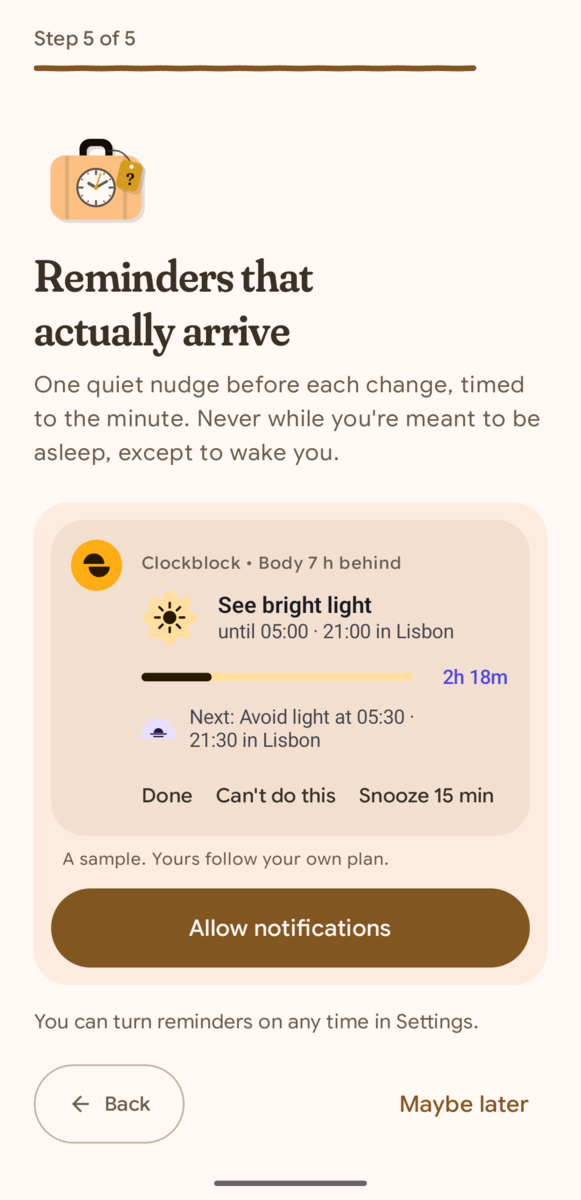
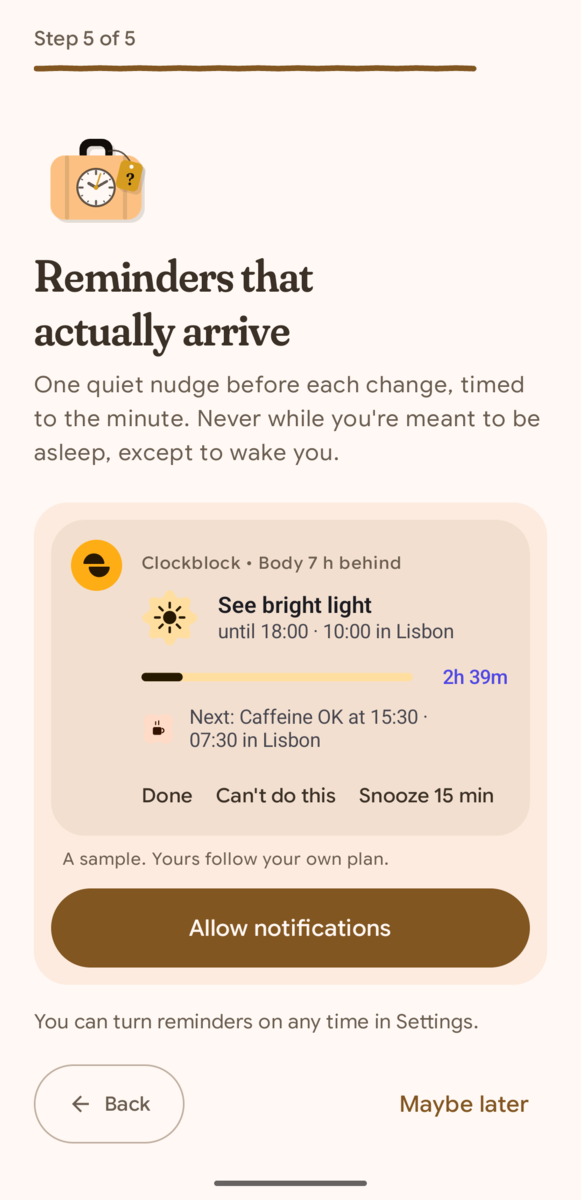
Reminders preview always shows a daytime sample (#154)
* Pin the onboarding notification preview to mid-afternoon in Tokyo, its countdown running on live

* Recapture the reminders step for the user guide with the daytime sample

diff --git a/widget/src/main/kotlin/dev/sebastiano/clockblocker/opus/widget/RemoteNowNotificationContent.kt b/widget/src/main/kotlin/dev/sebastiano/clockblocker/opus/widget/RemoteNowNotificationContent.kt
@@ -30,6 +30,7 @@ import dev.zacsweers.metro.Inject
 import kotlinx.coroutines.flow.first
 import kotlinx.coroutines.withTimeoutOrNull
 import java.time.Instant
+import java.time.ZoneId
 
 /**
  * The Now notification's Remote Compose content (#49): the notification documents ([NowNotificationDocuments]) for the
@@ -66,20 +67,31 @@ class RemoteNowNotificationContent(
 
     /**
      * Onboarding's preview: the expanded document for the widgets' sample Lisbon → Tokyo plan in bright light (made-up
-     * advice, no user data), [widthDp] wide, with no click action.
+     * advice, no user data), [widthDp] wide, with no click action. The sample is pinned to mid-afternoon in Tokyo
+     * ([previewMoment]), so it never reads "See bright light until 05:00" in someone's evening; its countdown and bar
+     * then run on with the real clock from there.
      */
     override suspend fun preview(now: Instant, widthDp: Int): RemoteViews? {
         val profile = profileProvider() ?: return null
-        val plan = DemoPlans.lisbonTokyo(now, DemoPlans.Scenario.SeeBrightLight)
-        val state = NowStateCalculator.compute(plan, now) ?: return null
-        val model = model(state, plan, now, DemoPlans.trip()) ?: return null
+        val model = previewModel(now) ?: return null
         val slots = NotificationSlots(collapsedWidthDp = widthDp, expandedWidthDp = widthDp)
         val documents = NowNotificationDocuments.capture(application, model, slots) { size, content -> capturer(profile, size, content) }
         return RemoteComposeRenderer.remoteViews(documents.expanded)
     }
 
-    /** What the documents show: the widgets' render of [plan] with the notification's pick ([WidgetStateMapper.forNowNotification]). */
-    internal fun model(state: NowState, plan: JetLagPlan, now: Instant, trip: Trip?): ThemedWidgetModel? {
+    /** The preview's document model: the sample plan at [previewMoment], its live parts counting on from [now]. */
+    internal fun previewModel(now: Instant): ThemedWidgetModel? {
+        val pinned = previewMoment(now)
+        val plan = DemoPlans.lisbonTokyo(pinned, DemoPlans.Scenario.SeeBrightLight)
+        val state = NowStateCalculator.compute(plan, pinned) ?: return null
+        return model(state, plan, pinned, DemoPlans.trip(), hostClockFrom = now)
+    }
+
+    /**
+     * What the documents show: the widgets' render of [plan] with the notification's pick
+     * ([WidgetStateMapper.forNowNotification]). [hostClockFrom] is where the live countdown and bar count on from.
+     */
+    internal fun model(state: NowState, plan: JetLagPlan, now: Instant, trip: Trip?, hostClockFrom: Instant = now): ThemedWidgetModel? {
         val mapped = WidgetStateMapper.map(
             plan,
             now,
@@ -89,11 +101,19 @@ class RemoteNowNotificationContent(
             places = trip?.let(WidgetStateMapper::places).orEmpty(),
         ) as? WidgetState.Active ?: return null
         val shown = WidgetStateMapper.forNowNotification(mapped, state.headline, state.next, state.outcome)
-        return WidgetRenderer(application).themedModel(shown)
+        return WidgetRenderer(application).themedModel(shown.copy(hostClockFrom = hostClockFrom))
     }
 
-    private companion object {
+    internal companion object {
+        /** The preview's pinned moment: 15:20 in Tokyo, the sample's destination, on [now]'s date there. */
+        fun previewMoment(now: Instant): Instant =
+            now.atZone(ZoneId.of(DemoPlans.DESTINATION_ZONE)).toLocalDate().atTime(PREVIEW_HOUR, PREVIEW_MINUTE)
+                .atZone(ZoneId.of(DemoPlans.DESTINATION_ZONE)).toInstant()
+
+        private const val PREVIEW_HOUR = 15
+        private const val PREVIEW_MINUTE = 20
+
         /** Like the widgets: a trip that can't be read in time leaves the place names to the zones. */
-        const val READ_TIMEOUT_MS = 2_000L
+        private const val READ_TIMEOUT_MS = 2_000L
     }
 }

diff --git a/widget/src/test/kotlin/dev/sebastiano/clockblocker/opus/widget/rc/NowNotificationRemoteTest.kt b/widget/src/test/kotlin/dev/sebastiano/clockblocker/opus/widget/rc/NowNotificationRemoteTest.kt
@@ -86,6 +86,9 @@ class NowNotificationRemoteTest {
     private val now = Instant.parse("2026-10-06T06:20:00Z") // 15:20 in Tokyo
     private val slots = NotificationSlots.forScreenWidth(SCREEN_DP)
 
+    /** The players' clock (the shade's); the preview tests move it on from the capture. */
+    private var playerNow = now
+
     @Before
     fun use24Hour() {
         Settings.System.putString(context.contentResolver, Settings.System.TIME_12_24, "24")
@@ -136,7 +139,7 @@ class NowNotificationRemoteTest {
 
     private fun document(bytes: ByteArray): RemoteDocument {
         @Suppress("RestrictedApiAndroidX") // test-only: pin the player clock so the countdown and bar are stable
-        return RemoteDocument(ByteArrayInputStream(bytes), SystemClock(Clock.fixed(now, zone)))
+        return RemoteDocument(ByteArrayInputStream(bytes), SystemClock(Clock.fixed(playerNow, zone)))
     }
 
     /** The height the platform-like view player gives [bytes] at [widthDp] under the shade's cap, after a first draw. */
@@ -261,6 +264,29 @@ class NowNotificationRemoteTest {
             captureSingleRemoteDocument(context = context, creationDisplayInfo = createCreationDisplayInfo(context, size), profile = profile, content = body)
         }
         content.preview(now, 280) shouldNotBe null
+    }
+
+    /** 01:40 in Tokyo, 17:40 in Lisbon: someone's evening, when an unpinned sample would read "until 05:00". */
+    private val evening = Instant.parse("2026-10-06T16:40:00Z")
+
+    @Test
+    fun `the onboarding preview is pinned to mid-afternoon in Tokyo, its countdown running on from the real clock`() {
+        val model = checkNotNull(content.previewModel(evening))
+        val state = model.state as dev.sebastiano.clockblocker.opus.widget.state.WidgetState.Active
+        state.capturedAt shouldBe Instant.parse("2026-10-07T06:20:00Z") // 15:20 in Tokyo, that day
+        state.hostClockFrom shouldBe evening
+        val fit = NotificationFit.expanded(context, model.texts, slots.expandedWidthDp, progress = true)
+        fit.line?.text?.replace('\u00A0', ' ') shouldBe "until 18:00 · 10:00 in Lisbon"
+        fit.title.text shouldBe "See bright light"
+    }
+
+    /** The preview played ten minutes after it was captured in someone's evening: still daytime, 2h 30m left. */
+    @Test
+    fun preview() {
+        val model = checkNotNull(content.previewModel(evening))
+        headers[model] = "Body 7 h behind"
+        playerNow = evening.plusSeconds(10 * 60)
+        shade("$DIR/remote_notification_preview.png", dark = false, listOf(model), expandedOnly = true)
     }
 
     @Test

diff --git a/widget/src/main/kotlin/dev/sebastiano/clockblocker/opus/widget/rc/WidgetRemoteContent.kt b/widget/src/main/kotlin/dev/sebastiano/clockblocker/opus/widget/rc/WidgetRemoteContent.kt
@@ -752,14 +752,14 @@ internal fun countdownMinutes(model: WidgetModel): Int? {
 internal fun countdownText(model: WidgetModel, compact: Boolean = false): RemoteString? {
     val total = countdownMinutes(model) ?: return null
     val state = model.state as WidgetState.Active
-    return HostText.countdown(total, DialMath.minuteOfDay(state.capturedAt, 0), compact)
+    return HostText.countdown(total, DialMath.minuteOfDay(state.hostClockFrom, 0), compact)
 }
 
 /** The live countdown in words for the spoken description ("1 hour 10 minutes left"); null without one. */
 internal fun spokenCountdown(model: WidgetModel): RemoteString? {
     val total = countdownMinutes(model) ?: return null
     val state = model.state as WidgetState.Active
-    return HostText.countdownSpoken(total, DialMath.minuteOfDay(state.capturedAt, 0), model.texts.countdownWords)
+    return HostText.countdownSpoken(total, DialMath.minuteOfDay(state.hostClockFrom, 0), model.texts.countdownWords)
 }
 
 /**

diff --git a/widget/src/main/kotlin/dev/sebastiano/clockblocker/opus/widget/rc/NowNotificationRemote.kt b/widget/src/main/kotlin/dev/sebastiano/clockblocker/opus/widget/rc/NowNotificationRemote.kt
@@ -189,7 +189,7 @@ private fun LiveProgress(model: ThemedWidgetModel, fit: ExpandedNotificationFit,
                     cornerRadius = RemoteOffset(r, r),
                 )
                 // Minutes into the block on the host's clock, as a share of the block; a sliver from the start.
-                val minutes = elapsed.toFloat().rf + HostTime.minutesSince(DialMath.minuteOfDay(state.capturedAt, 0))
+                val minutes = elapsed.toFloat().rf + HostTime.minutesSince(DialMath.minuteOfDay(state.hostClockFrom, 0))
                 val share = (minutes / total.toFloat().rf).min(1f.rf)
                 drawRoundRect(
                     paint = RemotePaint { color = fill; style = PaintingStyle.Fill },

diff --git a/widget/src/main/kotlin/dev/sebastiano/clockblocker/opus/widget/state/WidgetState.kt b/widget/src/main/kotlin/dev/sebastiano/clockblocker/opus/widget/state/WidgetState.kt
@@ -66,6 +66,11 @@ sealed interface WidgetState {
          * route or supplement names. Times and block kinds stay.
          */
         val redacted: Boolean = false,
+        /**
+         * The instant host-evaluated time counts on from (the live countdown and progress bar): [capturedAt], except
+         * for onboarding's preview, which shows a pinned daytime moment that then runs on with the real clock.
+         */
+        val hostClockFrom: Instant = capturedAt,
     ) : WidgetState {
         /** The name of [zoneId]'s place: the trip's city when it has one there, else the zone's own city. */
         fun placeName(zoneId: String): String = placeNames[zoneId] ?: DialMath.cityName(zoneId)

diff --git a/widget/src/main/kotlin/dev/sebastiano/clockblocker/opus/widget/preview/DemoPlans.kt b/widget/src/main/kotlin/dev/sebastiano/clockblocker/opus/widget/preview/DemoPlans.kt
@@ -27,7 +27,9 @@ import java.time.temporal.ChronoUnit
 object DemoPlans {
     const val TRIP_ID = "demo-lisbon-tokyo"
     private const val ORIGIN = "Europe/Lisbon"
-    private const val DESTINATION = "Asia/Tokyo"
+    /** The demo trip's destination zone (Tokyo). */
+    const val DESTINATION_ZONE = "Asia/Tokyo"
+    private const val DESTINATION = DESTINATION_ZONE
 
     /** The demo trip's airport codes, for the route strip. */
     val ROUTE = WidgetRoute("LIS", "HND")

diff --git a/user-guide/getting-started.md b/user-guide/getting-started.md
@@ -96,7 +96,7 @@ clock earlier. Melatonin is a medicine in many countries. Check with a doctor or
 
 ### 5. Reminders that actually arrive
 
-<img src="images/reminders.png" alt="Step 5 of 5, Reminders that actually arrive: a sample reminder as it looks in the notification shade, See bright light until 05:00 with a progress bar and 2h 23m left, Next: Avoid light at 05:30, and the Done, Can't do this and Snooze 15 min actions. Under it, an Allow notifications button. At the bottom, Back and Maybe later." width="280" />
+<img src="images/reminders.png" alt="Step 5 of 5, Reminders that actually arrive: a sample reminder as it looks in the notification shade, See bright light until 18:00 (10:00 in Lisbon) with a progress bar and the time left counting down, Next: Caffeine OK at 15:30, and the Done, Can't do this and Snooze 15 min actions. Under it, an Allow notifications button. At the bottom, Back and Maybe later." width="280" />
 
 The app can remind you just before each change in your plan. It never sends a reminder while you're meant to be
 asleep, except the one that wakes you.

diff --git a/docs/surfaces.md b/docs/surfaces.md
@@ -598,7 +598,8 @@ are copies of them.
 
 Onboarding asks for notifications from its last step ("Reminders that actually arrive"), right under a sample of the
 Now notification: the real Remote Compose document for the widgets' sample plan (`NowNotificationContent.preview`),
-played in the app, or the standard notification's look where Remote Compose can't play. Once notifications are allowed
+pinned to mid-afternoon in Tokyo so it always reads as daytime (its countdown then runs on with the real clock), played
+in the app, or the standard notification's look where Remote Compose can't play. Once notifications are allowed
 it offers exact timing as an optional row, only where the user could still grant it
 (`NotificationPermissionState.exactAlarmsRequestable` and not yet allowed). Settings shows the current
 state under "What Android allows": a one-line summary that expands to a row per permission, each with a button to
